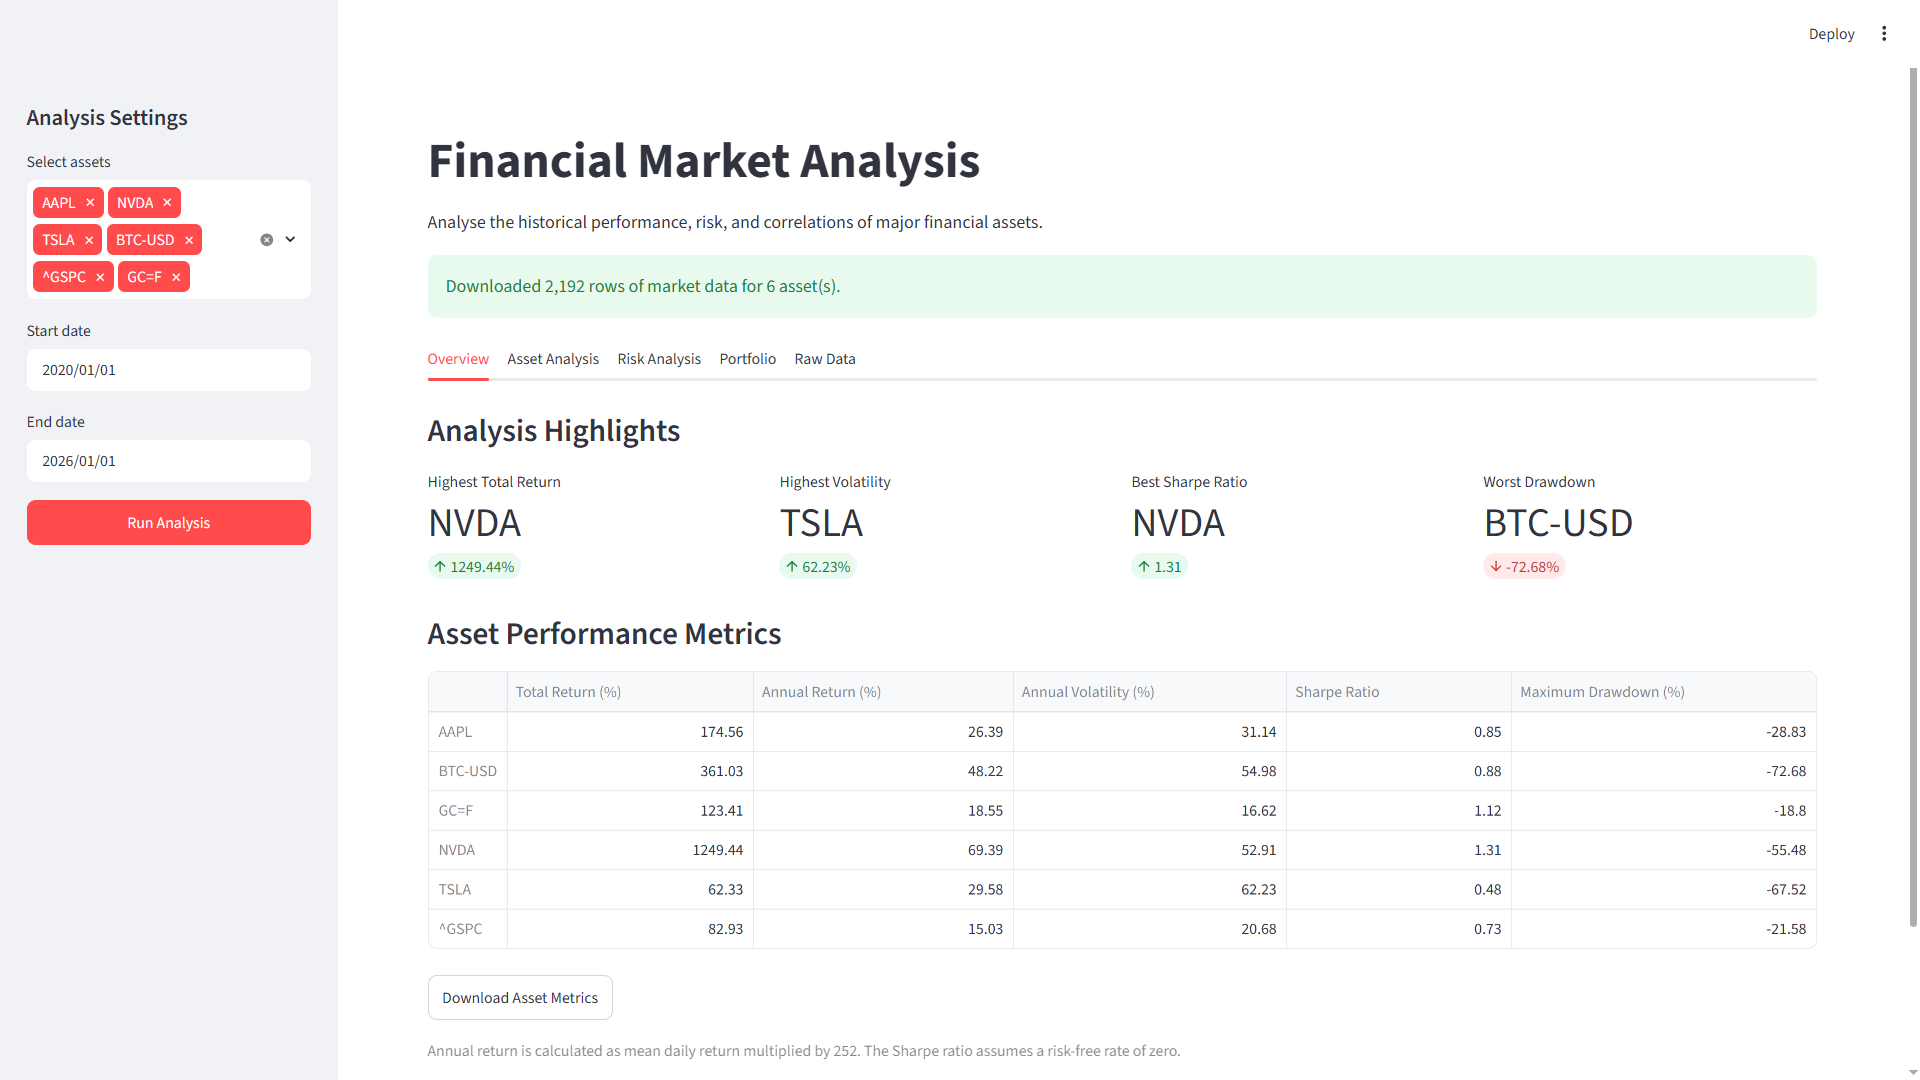
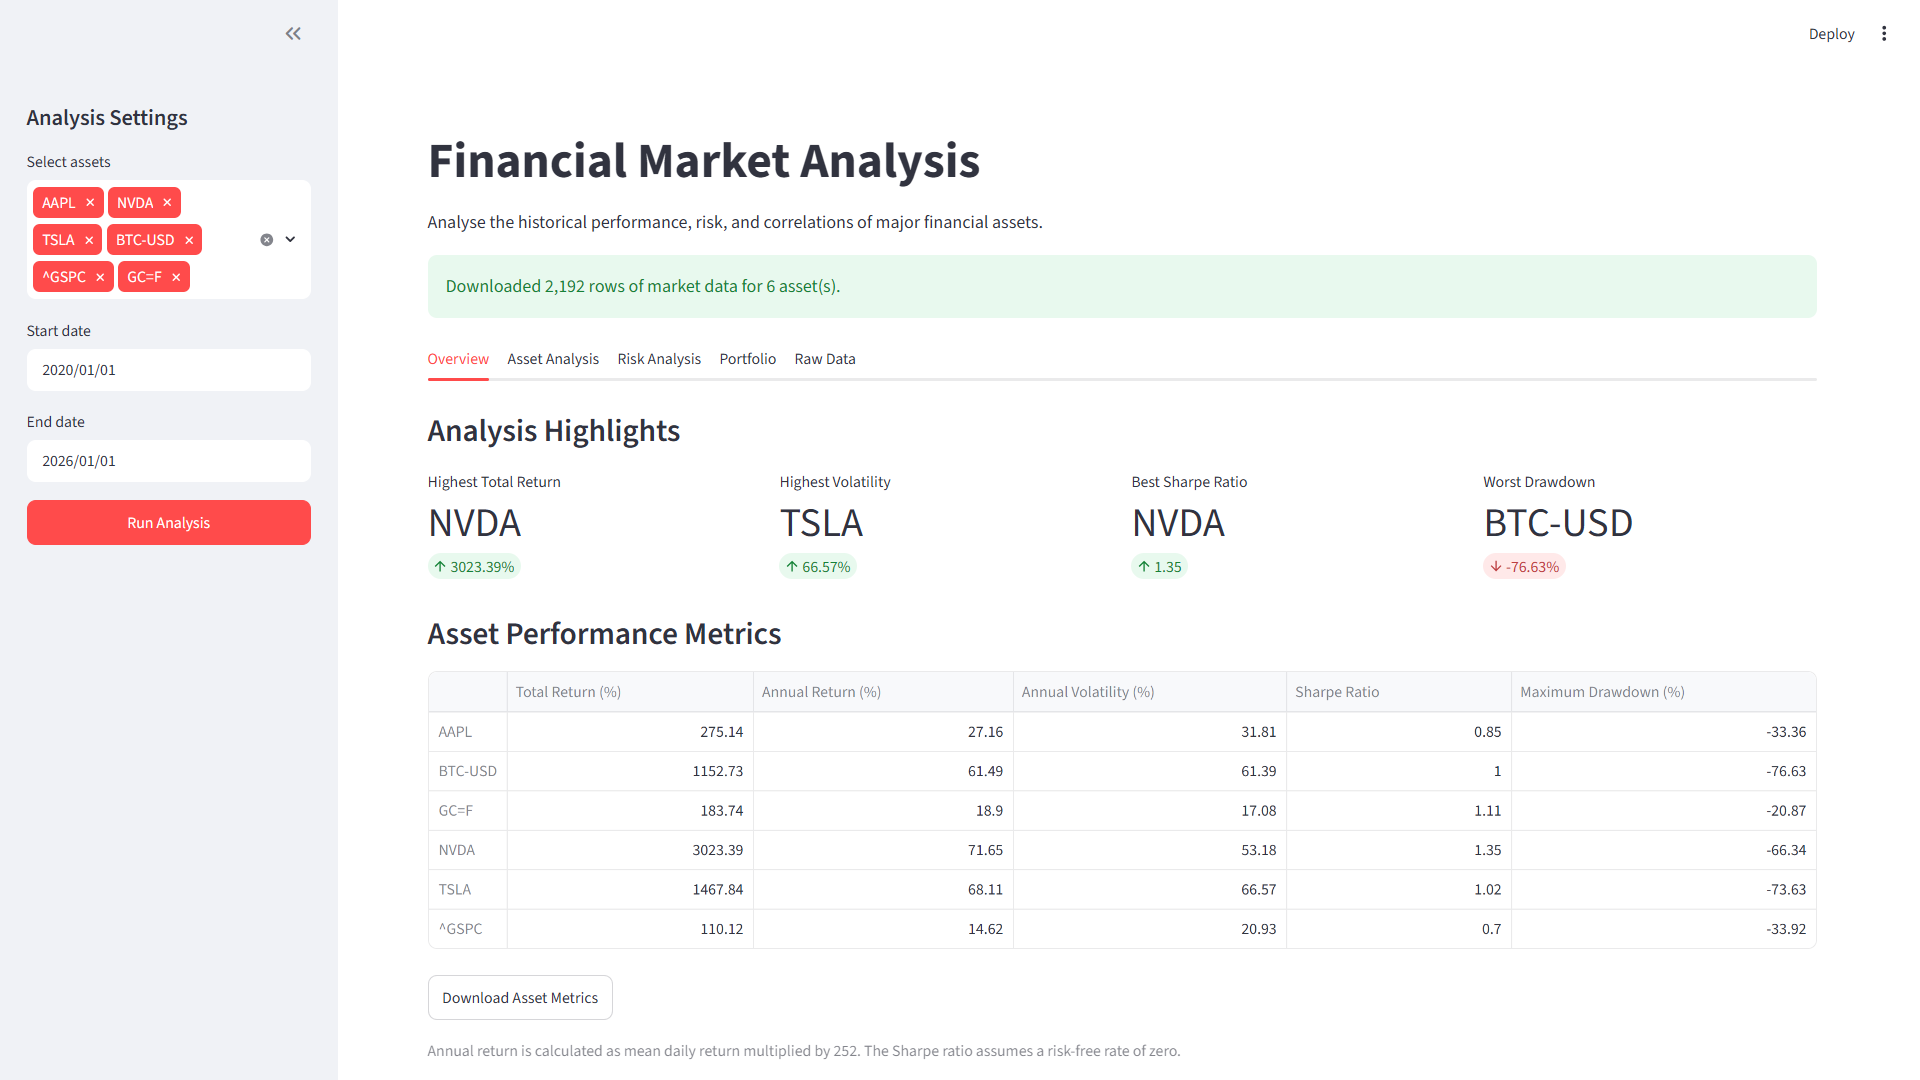
Fix return alignment and refresh dashboard screenshots

diff --git a/app.py b/app.py
@@ -186,33 +186,35 @@ else:
                 end_date.isoformat(),
             )
 
-        daily_returns = prices.pct_change(
-            fill_method=None
-        ).dropna()
+            # Keep only dates for which every selected asset has a price.
+            common_prices = prices.dropna()
 
-        if daily_returns.empty:
-            raise ValueError(
-                "Not enough common price data is available to "
-                "calculate returns for the selected assets and dates."
+            if len(common_prices) < 2:
+                raise ValueError(
+                    "Not enough common price data is available for "
+                    "the selected assets and dates."
             )
 
-        asset_metrics = calculate_asset_metrics(daily_returns)
-        drawdowns = calculate_asset_drawdowns(daily_returns)
-        correlation_matrix = daily_returns.corr()
+            # Calculate returns after aligning all assets to common dates.
+            daily_returns = common_prices.pct_change(
+                fill_method=None
+            ).dropna()
 
-        common_prices = prices.dropna()
+            if daily_returns.empty:
+                raise ValueError(
+                    "Not enough return data is available for "
+                    "the selected assets and dates."
+                )
 
-        if common_prices.empty:
-            raise ValueError(
-                "No common price observations are available for "
-                "the selected assets and dates."
-            )
+            asset_metrics = calculate_asset_metrics(daily_returns)
+            drawdowns = calculate_asset_drawdowns(daily_returns)
+            correlation_matrix = daily_returns.corr()
 
-        normalized_prices = (
+            normalized_prices = (
             common_prices
             / common_prices.iloc[0]
             * 100
-        )
+            )
 
         st.success(
             f"Downloaded {len(prices):,} rows of market data "